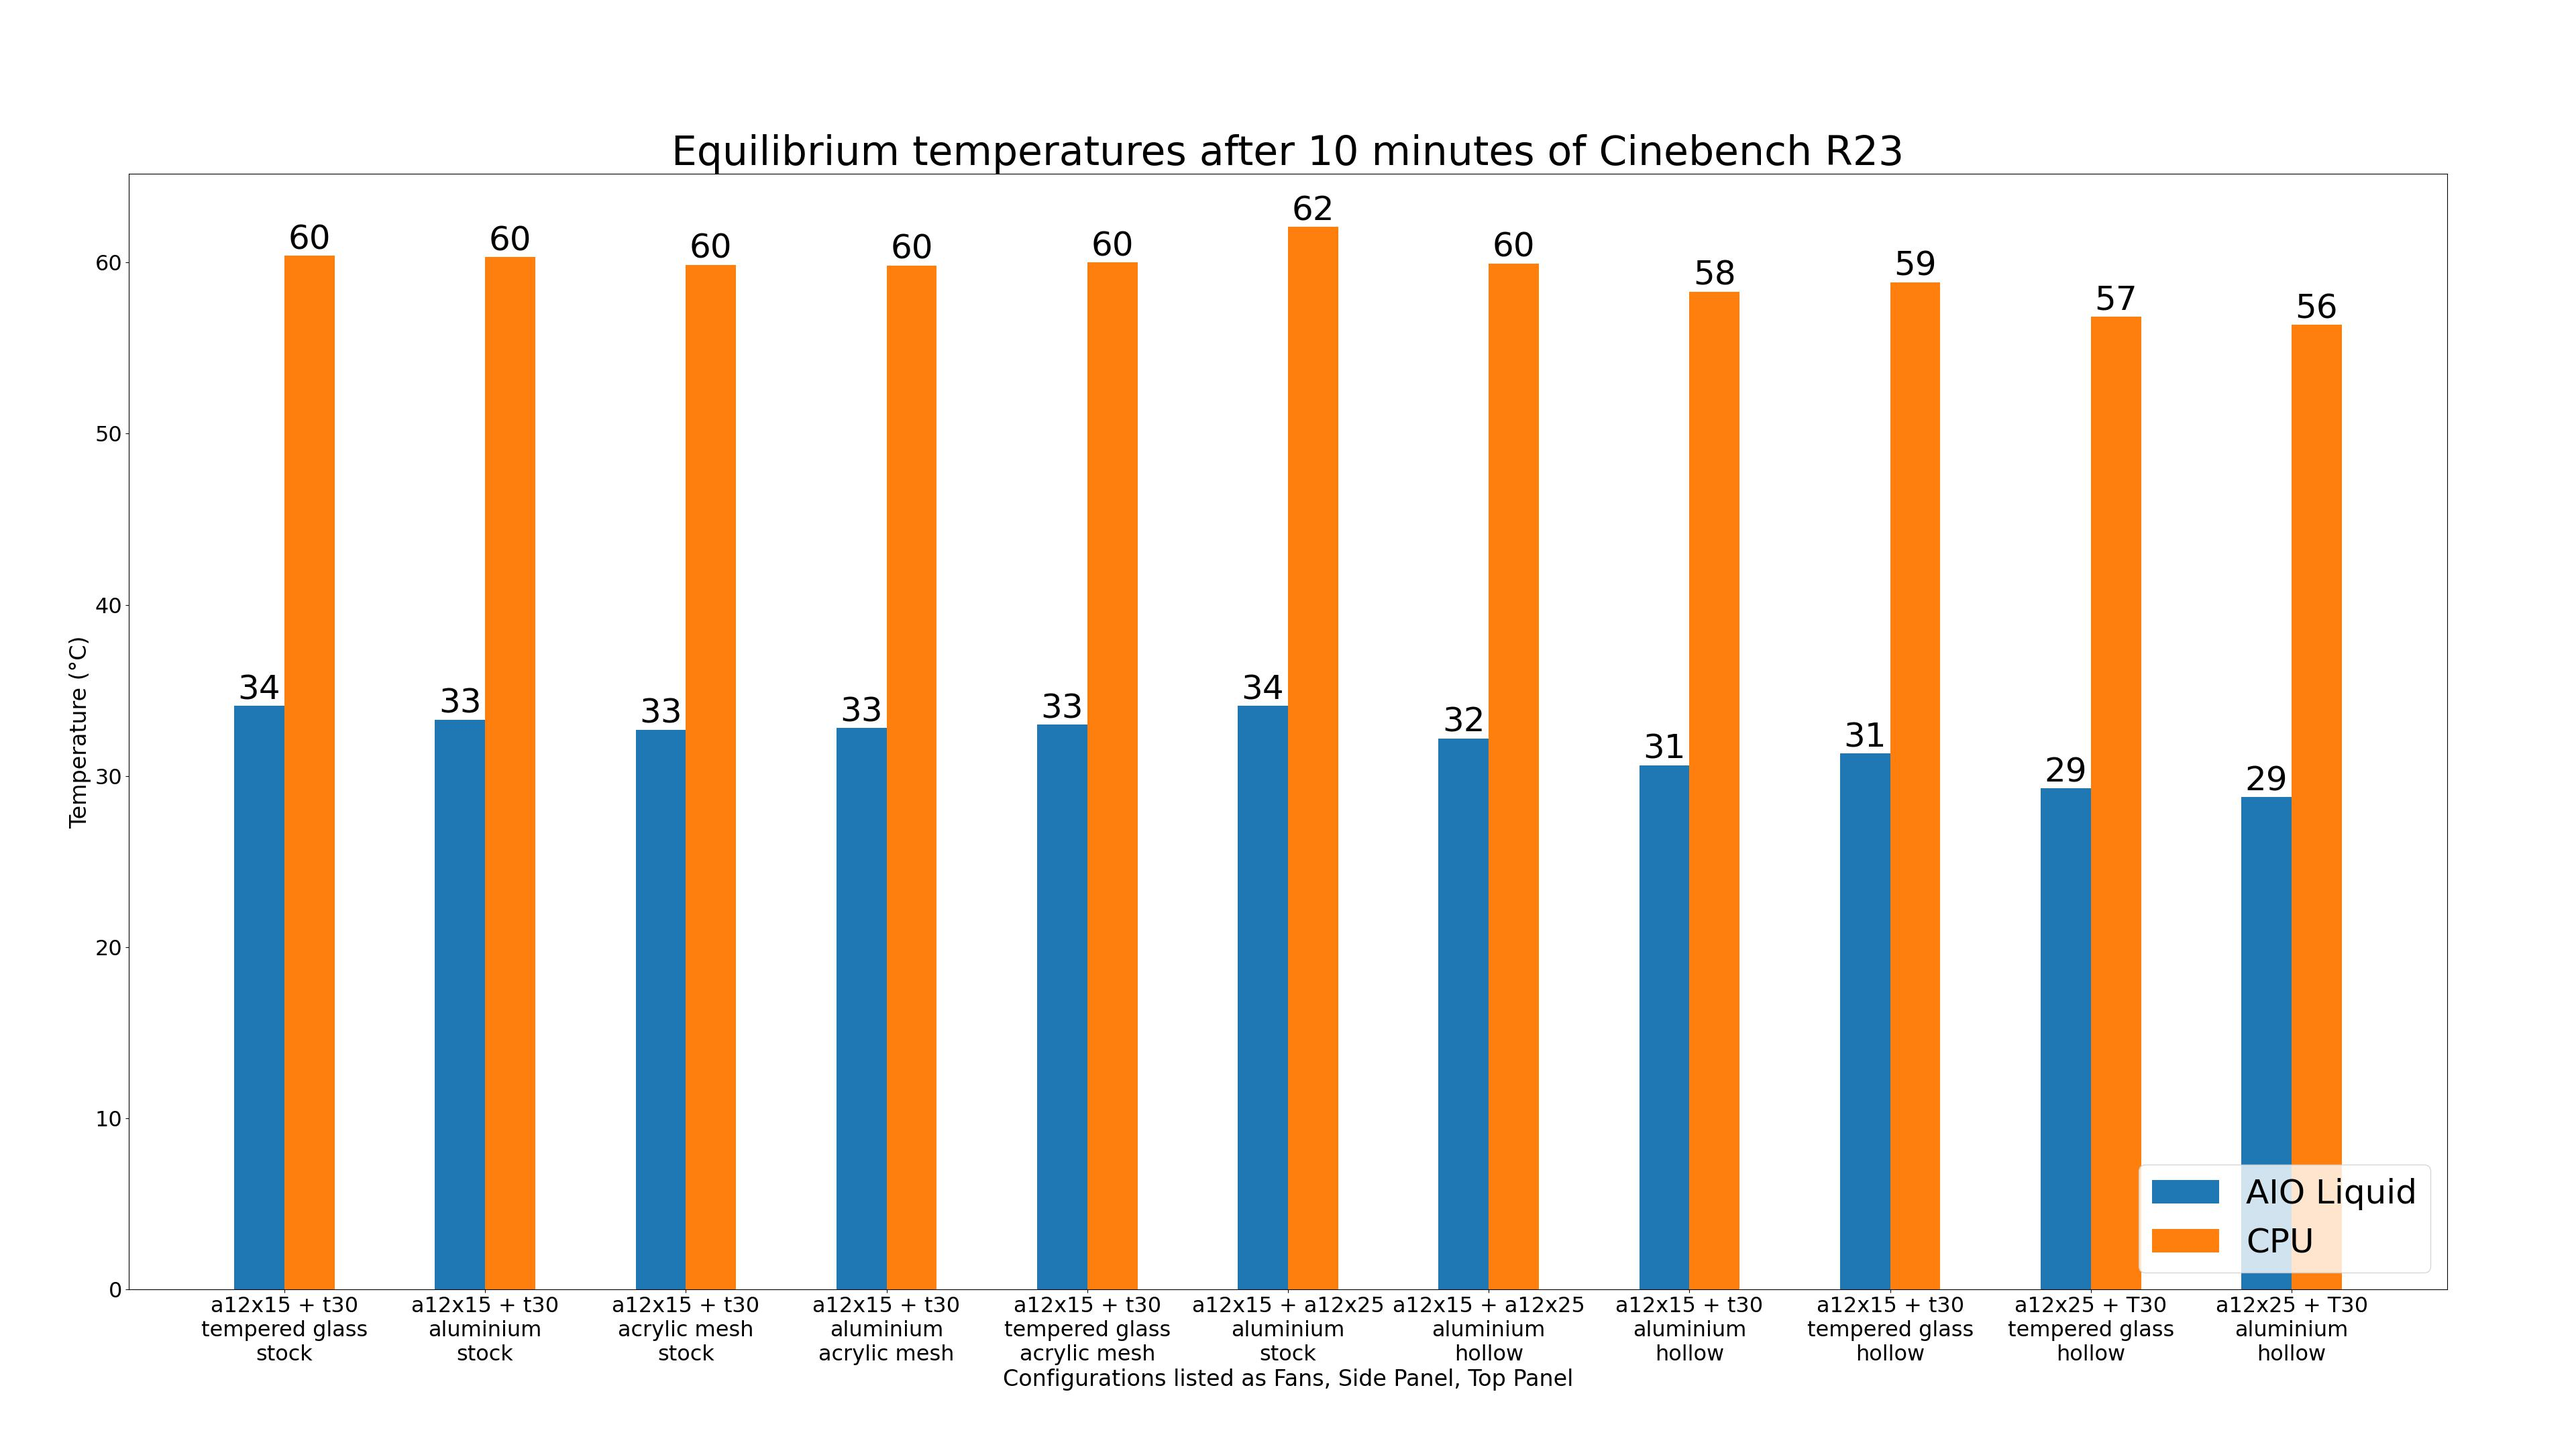
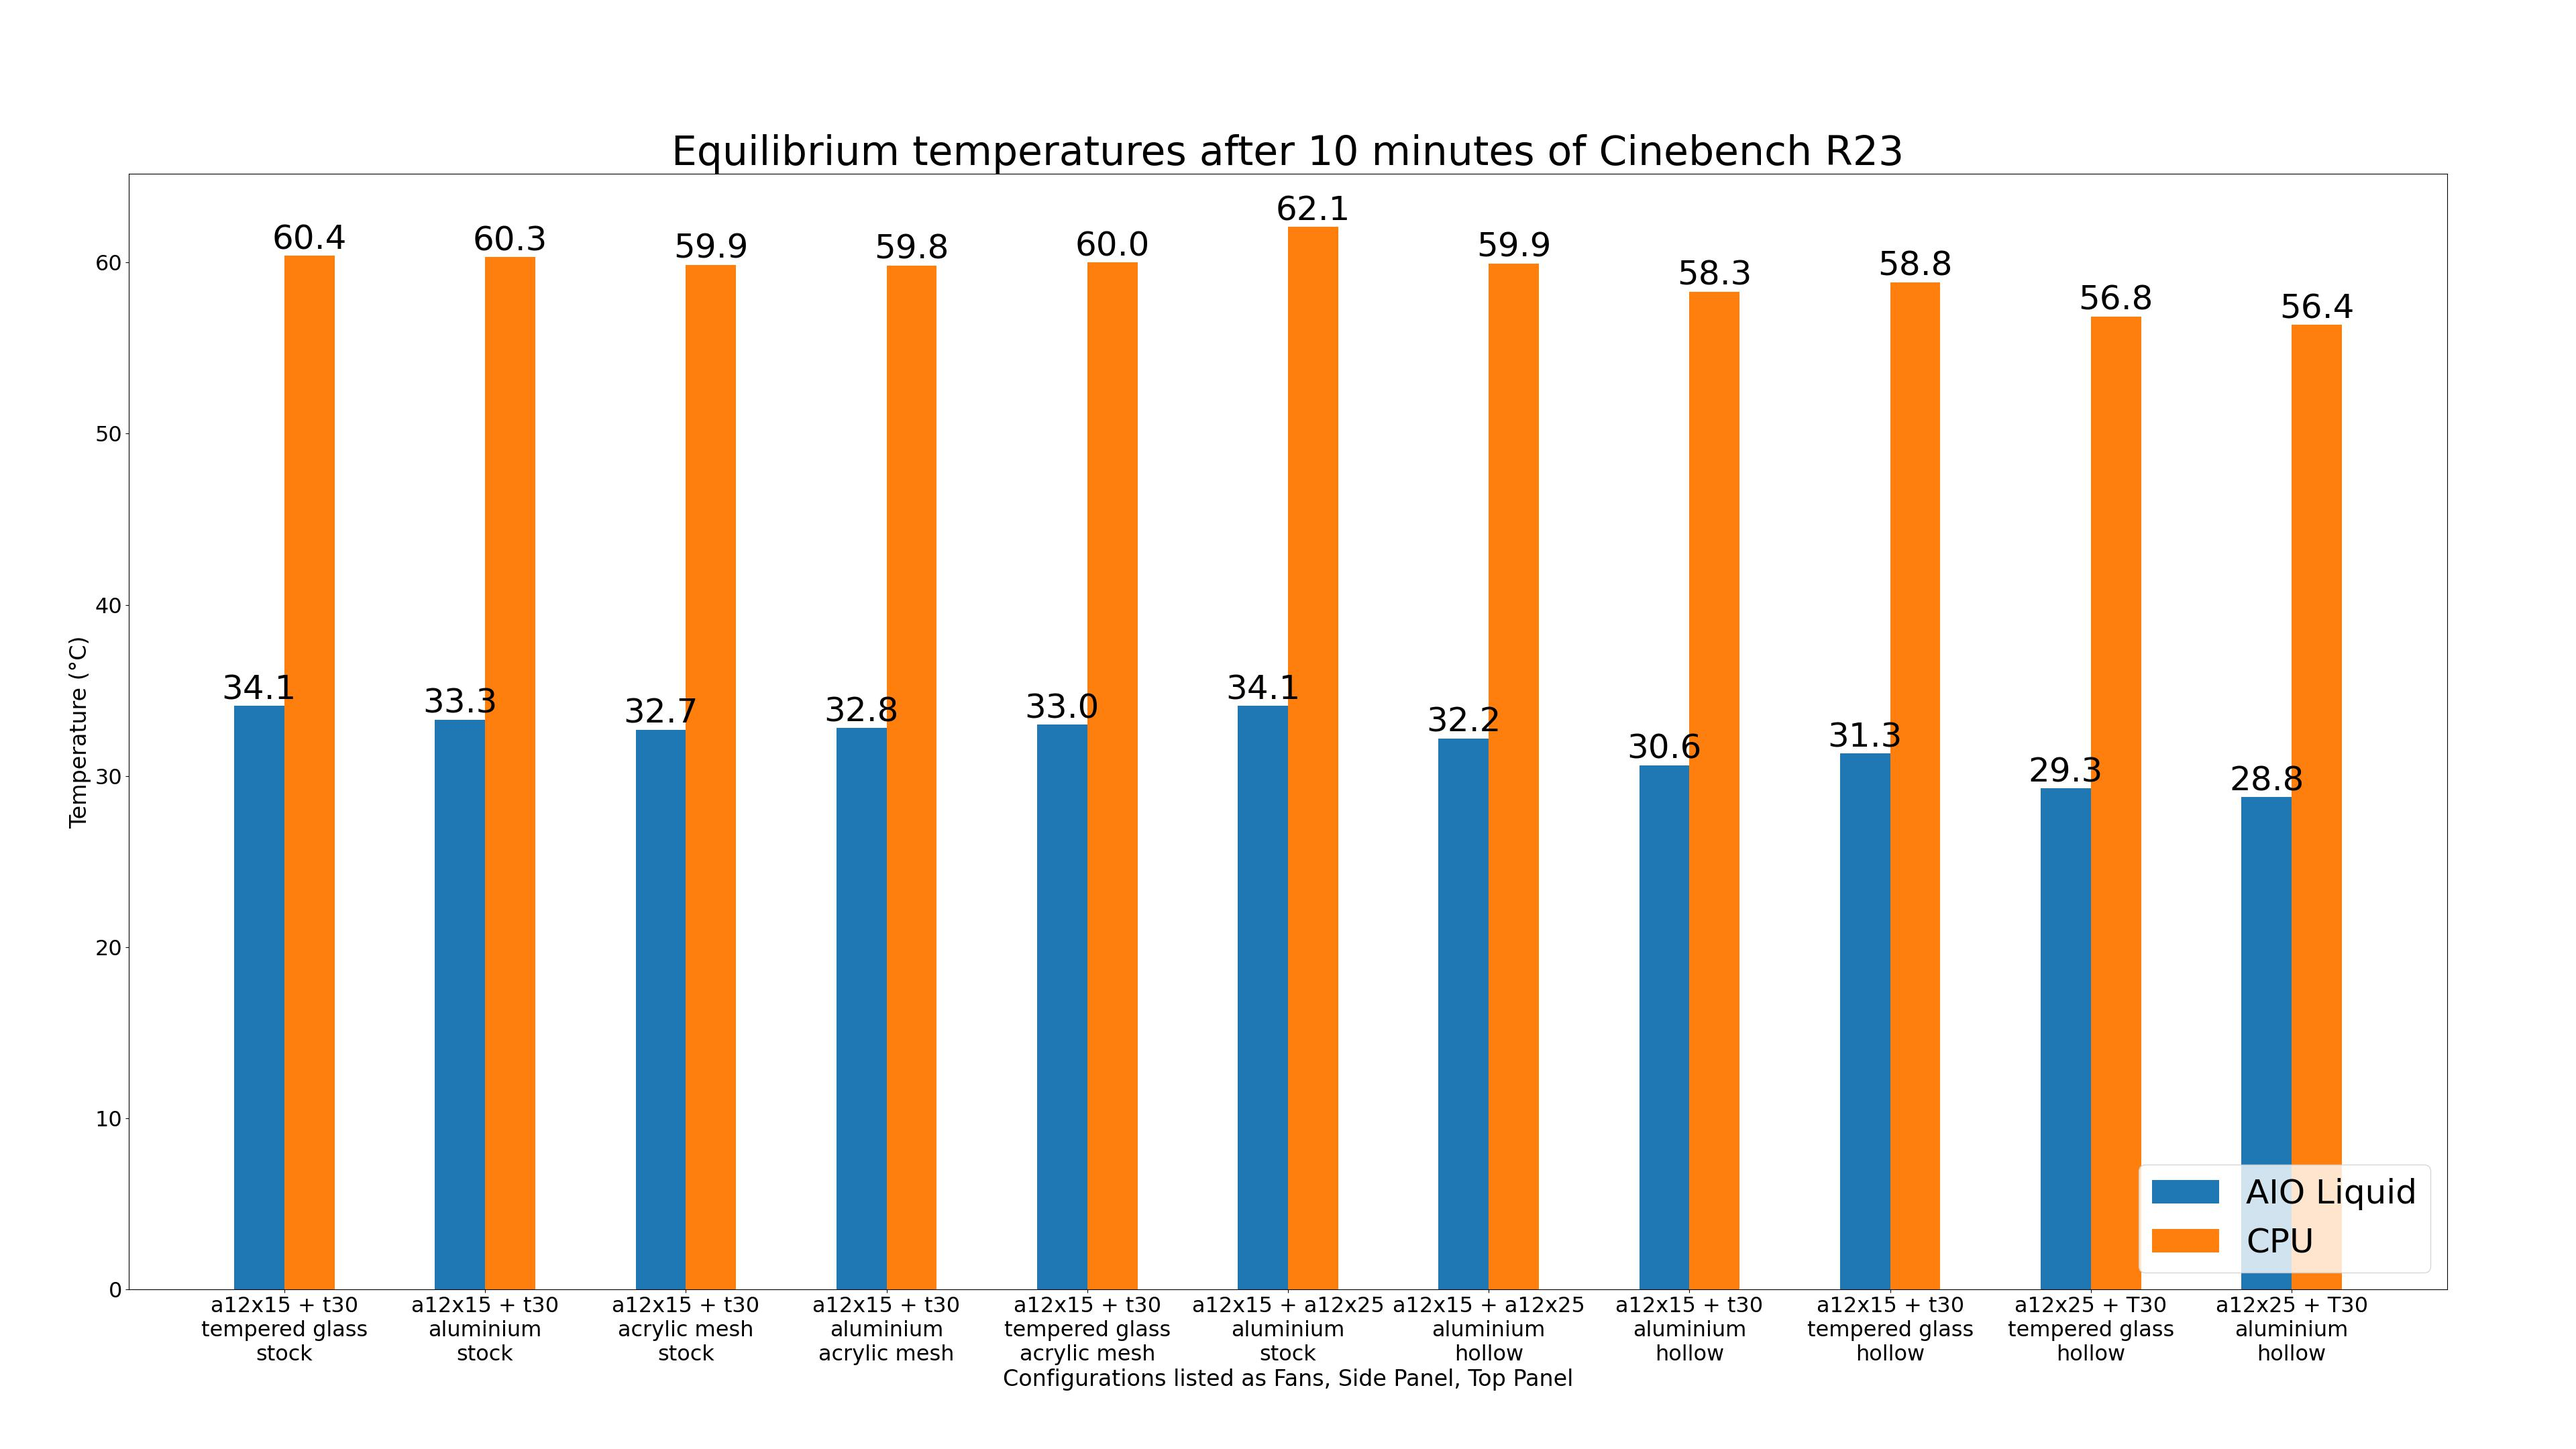
Decimal point for bar labels
Added a decimal point to the bar labels.

diff --git a/main.py b/main.py
@@ -145,9 +145,9 @@ def barChartPlot_3(cpu, gpu, liq, key, title):
     plt.ylabel("Temperature (°C)")
     plt.title("Equilibrium temperatures after 15 minutes of " + title)
 
-    ax.bar_label(bar1, [round(item) for item in liq])
-    ax.bar_label(bar2, [round(item) for item in cpu])
-    ax.bar_label(bar3, [round(item) for item in gpu])
+    ax.bar_label(bar1, [round(item, 1) for item in liq])
+    ax.bar_label(bar2, [round(item, 1) for item in cpu])
+    ax.bar_label(bar3, [round(item, 1) for item in gpu])
 
     # Add a legend
     plt.legend((bar1, bar2, bar3), ('AIO Liquid', 'CPU', 'GPU'), loc='lower right')
@@ -185,8 +185,8 @@ def barChartPlot_2(liq, cpu, key, title):
     plt.ylabel("Temperature (°C)")
     plt.title("Equilibrium temperatures after 10 minutes of " + title)
 
-    ax.bar_label(bar1, [round(item) for item in liq])
-    ax.bar_label(bar2, [round(item) for item in cpu])
+    ax.bar_label(bar1, [round(item, 1) for item in liq])
+    ax.bar_label(bar2, [round(item, 1) for item in cpu])
 
     # Add a legend
     plt.legend((bar1, bar2), ('AIO Liquid', 'CPU'), loc='lower right')
